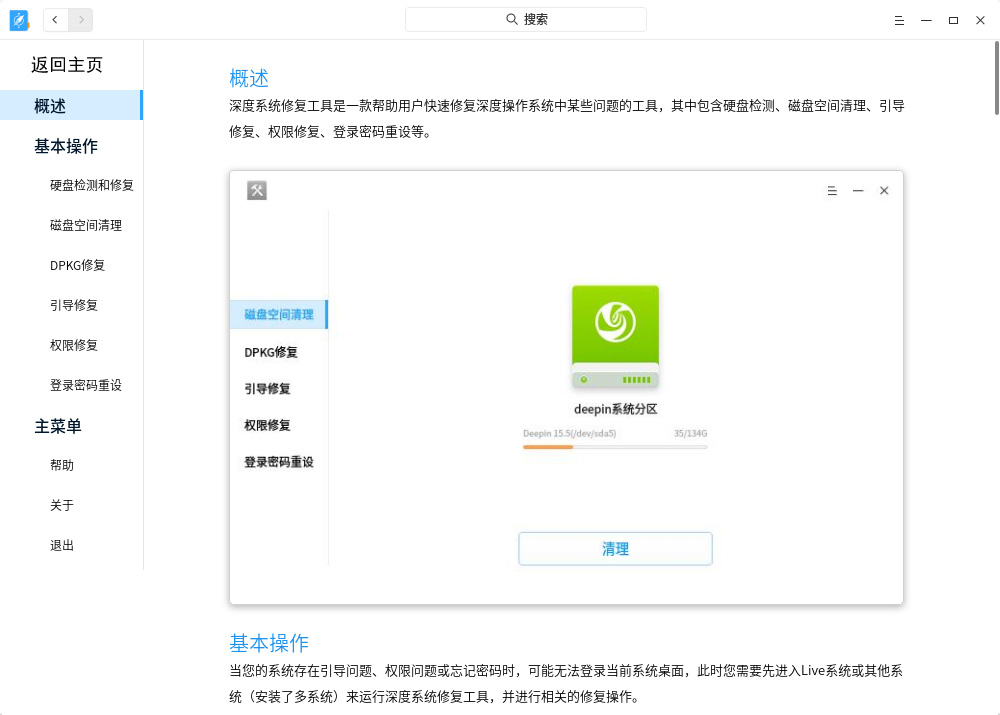
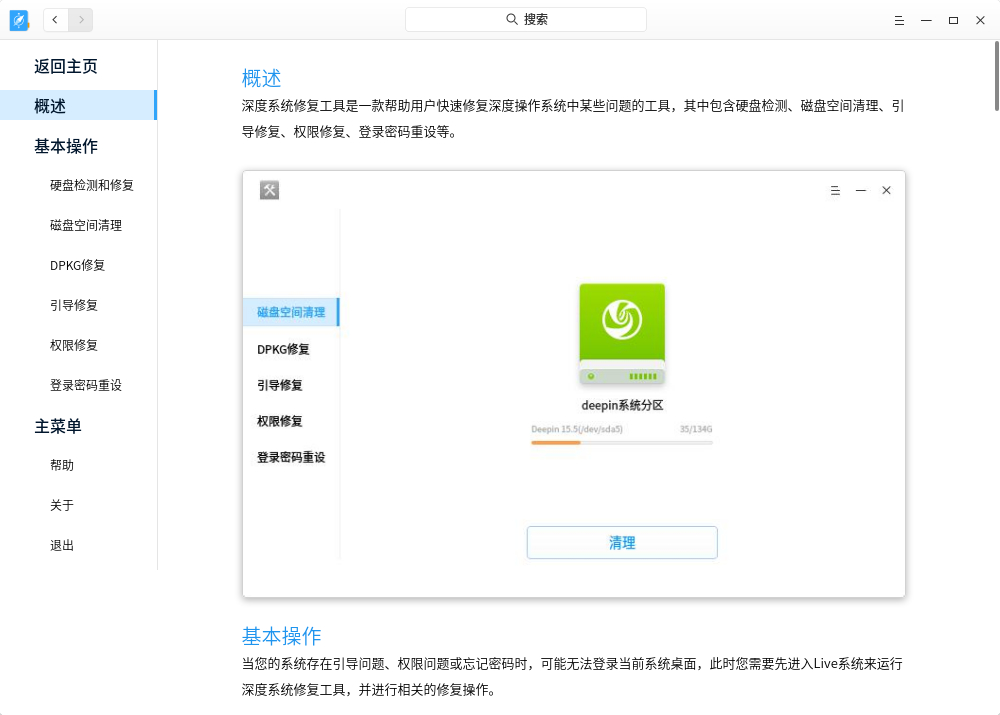
update manual files

diff --git a/manual/en_US/index.md b/manual/en_US/index.md
@@ -8,7 +8,7 @@ Deepin Repair is a tool to help users quickly fix some issues in deepin, includi
 
 ## Basic Operations
 
-When you cannot find boot menu, have privilege error or forgot login password, you may not be able to enter deepin desktop, then you need to go into Live system or another system (if multiple systems installed) to run Deepin Repair.
+When you cannot find boot menu, have privilege error or forgot login password, you may not be able to enter deepin desktop, then you need to go into Live system to run Deepin Repair.
 
 ### Detect and repair disk
 
@@ -45,7 +45,7 @@ If you cannot install or upgrade application, your DPKG may be damaged, then you
 
 ### Repair boot menu
 
-If you cannot find boot menu to enter system, you can go into Live system or another system (if multiple systems installed) and run **Boot Repair** to repair boot menu.
+If you cannot find boot menu to enter system, you can go into Live system and run **Boot Repair** to repair boot menu.
 
 1. Click **Boot Repair** on the interface.
 2. Click **Repair** to start, click **Show details** to view the repairing process.
@@ -55,7 +55,7 @@ If you cannot find boot menu to enter system, you can go into Live system or ano
 
 ### Repair privilege
 
-If you cannot enter desktop due to privilege error, you can go into Live system or another system (if multiple systems installed) and run **Boot Repair** to repair privilege.
+If you cannot enter desktop due to privilege error, you can go into Live system and run **Boot Repair** to repair privilege.
 
 1. Click **Privilege Repair** on the interface.
 2. Click **Repair** to start.
@@ -66,7 +66,7 @@ If you cannot enter desktop due to privilege error, you can go into Live system 
 
 ### Reset login password
 
-If you forgot account password and cannot login, you can go into Live system or another system (if multiple systems installed) and run **Boot Repair** to reset login password.
+If you forgot account password and cannot login, you can go into Live system and run **Boot Repair** to reset login password.
 
 1. Click **Password Reset** on the interface.
 2. Click **Reset password**, enter a new password and retype it.

diff --git a/manual/zh_CN/index.md b/manual/zh_CN/index.md
@@ -9,7 +9,7 @@
 
 ## 基本操作
 
-当您的系统存在引导问题、权限问题或忘记密码时，可能无法登录当前系统桌面，此时您需要先进入Live系统或其他系统（安装了多系统）来运行深度系统修复工具，并进行相关的修复操作。
+当您的系统存在引导问题、权限问题或忘记密码时，可能无法登录当前系统桌面，此时您需要先进入Live系统来运行深度系统修复工具，并进行相关的修复操作。
 
 ### 硬盘检测和修复
 
@@ -27,7 +27,7 @@
 
 1. 在界面上点击 **磁盘空间清理**。
 2. 点击 **清理**，等待工具清理并提示信息。
-3. 点击 **完成**
+3. 点击 **完成**。
 
 ![0|clean](jpg/clean.jpg)
 
@@ -46,7 +46,7 @@
 
 ### 引导修复
 
-当用户启动系统没有找到引导项时，可以通过Live系统或其他系统运行深度系统修复工具，来进引导修复操作。
+当用户启动系统没有找到引导项时，可以通过Live系统运行深度系统修复工具，来进引导修复操作。
 
 1. 在界面上点击 **引导修复**。
 2. 点击 **修复**，等待修复处理，可以点击显示详细过程进行查看。
@@ -56,7 +56,7 @@
 
 ### 权限修复
 
-当用户系统文件权限损坏后，不能进入桌面环境，可以通过Live系统或其他系统运行深度系统修复工具，来进行修复权限操作。
+当用户系统文件权限损坏后，不能进入桌面环境，可以通过Live系统运行深度系统修复工具，来进行修复权限操作。
 
 1. 在界面上点击 **权限修复**。
 2. 点击 **修复** ，等待修复处理并提示信息。
@@ -67,7 +67,7 @@
 
 ### 登录密码重设
 
-当用户忘记登录密码时，可以通过Live系统或其他系统运行深度系统修复工具，来重置系统的登录密码。
+当用户忘记登录密码时，可以通过Live系统运行深度系统修复工具，来重置系统的登录密码。
 
 1. 在界面上点击 **重置密码**。
 2. 输入新的密码和重复密码确认，点击 **确定**。
